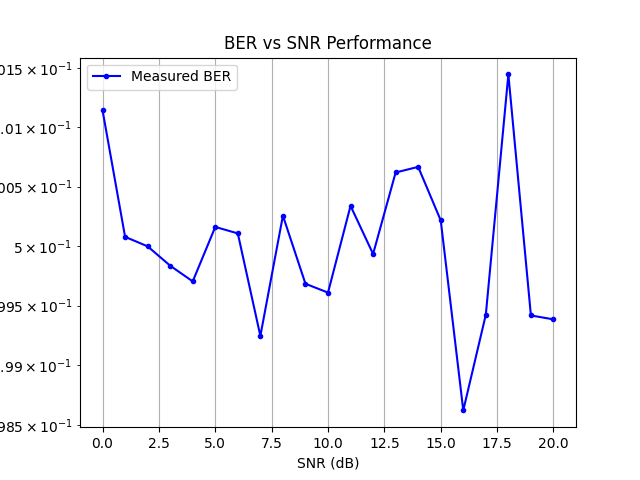
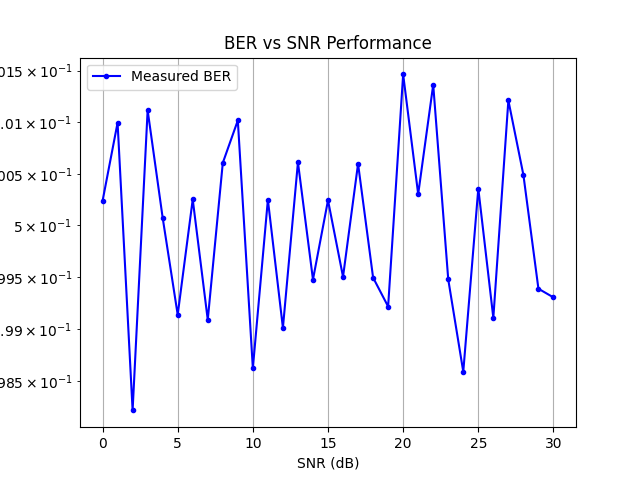
FYI

diff --git a/Data/dataset_generator/mimo_dataset_generator.py b/Data/dataset_generator/mimo_dataset_generator.py
@@ -101,96 +101,58 @@ class MIMODatasetGenerator:
             # Create AWGN channel
             awgn_channel = sn.channel.AWGN()
             
-            # Generate distances and path loss (ensure float32)
-            distances = tf.cast(
-                tf.random.uniform([batch_size], minval=10.0, maxval=500.0),
-                tf.float32
-            )
-            path_loss_db = tf.cast(
-                self.path_loss_manager.calculate_free_space_path_loss(distances),
-                tf.float32
-            )
+            # Use Sionna's constellation mapper
+            qpsk_mapper = sn.mapping.Constellation("qpsk", normalize=True)
             
-            # Generate channel response with correct shape [batch_size, num_rx, num_tx]
-            channel_response = tf.cast(tf.complex(
-                tf.random.normal(
-                    [batch_size, self.system_params.num_rx_antennas, self.system_params.num_tx_antennas]
-                ),
-                tf.random.normal(
-                    [batch_size, self.system_params.num_rx_antennas, self.system_params.num_tx_antennas]
-                )
-            ), tf.complex64)
-            
-            # Generate SNR values [batch_size]
-            snr_db = tf.cast(
-                tf.random.uniform(
-                    [batch_size], 
-                    self.system_params.min_snr_db,
-                    self.system_params.max_snr_db
-                ),
-                tf.float32
+            # Generate random bits
+            num_bits_per_symbol = 2  # QPSK
+            bits = tf.random.uniform(
+                [batch_size, self.system_params.num_streams * num_bits_per_symbol],
+                minval=0,
+                maxval=2,
+                dtype=tf.int32
             )
             
-            # Generate QPSK symbols with correct shape [batch_size, num_streams]
-            if mod_scheme == 'QPSK':
-                qpsk_points = tf.constant([
-                    1.0 + 1.0j, 1.0 - 1.0j, -1.0 + 1.0j, -1.0 - 1.0j
-                ], dtype=tf.complex64) / tf.cast(tf.sqrt(2.0), tf.complex64)
-                
-                indices = tf.random.uniform(
-                    [batch_size, self.system_params.num_streams],
-                    minval=0,
-                    maxval=4,
-                    dtype=tf.int32
-                )
-                
-                tx_symbols = tf.gather(qpsk_points, indices)
-            else:
-                raise ValueError(f"Unsupported modulation scheme: {mod_scheme}")
-
-            # Scale channel response for normalization
-            scaled_channel = channel_response / tf.cast(
-                tf.sqrt(tf.cast(self.system_params.num_tx_antennas, tf.float32)),
-                tf.complex64
+            # Map bits to symbols using Sionna's mapper
+            tx_symbols = qpsk_mapper.modulate(bits)
+            tx_symbols = tf.reshape(tx_symbols, [batch_size, self.system_params.num_streams])
+            
+            # Generate channel response with proper normalization
+            channel_response = tf.complex(
+                tf.random.normal([batch_size, self.system_params.num_rx_antennas, 
+                                self.system_params.num_tx_antennas]),
+                tf.random.normal([batch_size, self.system_params.num_rx_antennas, 
+                                self.system_params.num_tx_antennas])
+            ) / tf.sqrt(2.0 * float(self.system_params.num_tx_antennas))
+            
+            # Generate SNR values
+            snr_db = tf.random.uniform(
+                [batch_size],
+                self.system_params.min_snr_db,
+                self.system_params.max_snr_db
             )
             
-            # Calculate received symbols without noise [batch_size, num_rx]
-            tx_symbols_expanded = tf.expand_dims(tx_symbols, axis=-1)  # [batch_size, num_streams, 1]
-            y_without_noise = tf.matmul(scaled_channel, tx_symbols_expanded)
-            y_without_noise = tf.squeeze(y_without_noise, axis=-1)  # [batch_size, num_rx]
-
             # Calculate noise power using Sionna's utility
             no = sn.utils.ebnodb2no(
                 ebno_db=snr_db,
-                num_bits_per_symbol=2,  # QPSK has 2 bits per symbol
-                coderate=1.0  # Uncoded transmission
+                num_bits_per_symbol=self.system_params.num_bits_per_symbol,
+                coderate=self.system_params.coderate
             )
             
-            # Reshape noise power for broadcasting [batch_size, 1]
-            no = tf.reshape(no, [batch_size, 1])
+            # Apply channel
+            tx_symbols_expanded = tf.expand_dims(tx_symbols, axis=-1)
+            y_without_noise = tf.matmul(channel_response, tx_symbols_expanded)
+            y_without_noise = tf.squeeze(y_without_noise, axis=-1)
             
-            # Apply AWGN channel
+            # Add noise with proper scaling
+            no = tf.reshape(no, [batch_size, 1])
             rx_symbols = awgn_channel([y_without_noise, no])
             
-            # Calculate metrics
-            metrics = self.metrics_calculator.calculate_enhanced_metrics(
-                channel_response=scaled_channel,
-                tx_symbols=tx_symbols,
-                rx_symbols=rx_symbols,
-                snr_db=snr_db
-            )
-            
             return {
-                'channel_response': scaled_channel,
-                'path_loss_db': path_loss_db,
-                'distances': distances,
-                'modulation_scheme': mod_scheme,
+                'channel_response': channel_response,
                 'tx_symbols': tx_symbols,
                 'rx_symbols': rx_symbols,
-                'snr_db': snr_db,
-                'effective_snr': tf.cast(metrics['effective_snr'], tf.float32),
-                'spectral_efficiency': tf.cast(metrics['spectral_efficiency'], tf.float32),
-                'condition_number': tf.cast(metrics['condition_number'], tf.float32)
+                'snr_db': snr_db
             }
             
         except Exception as e:
